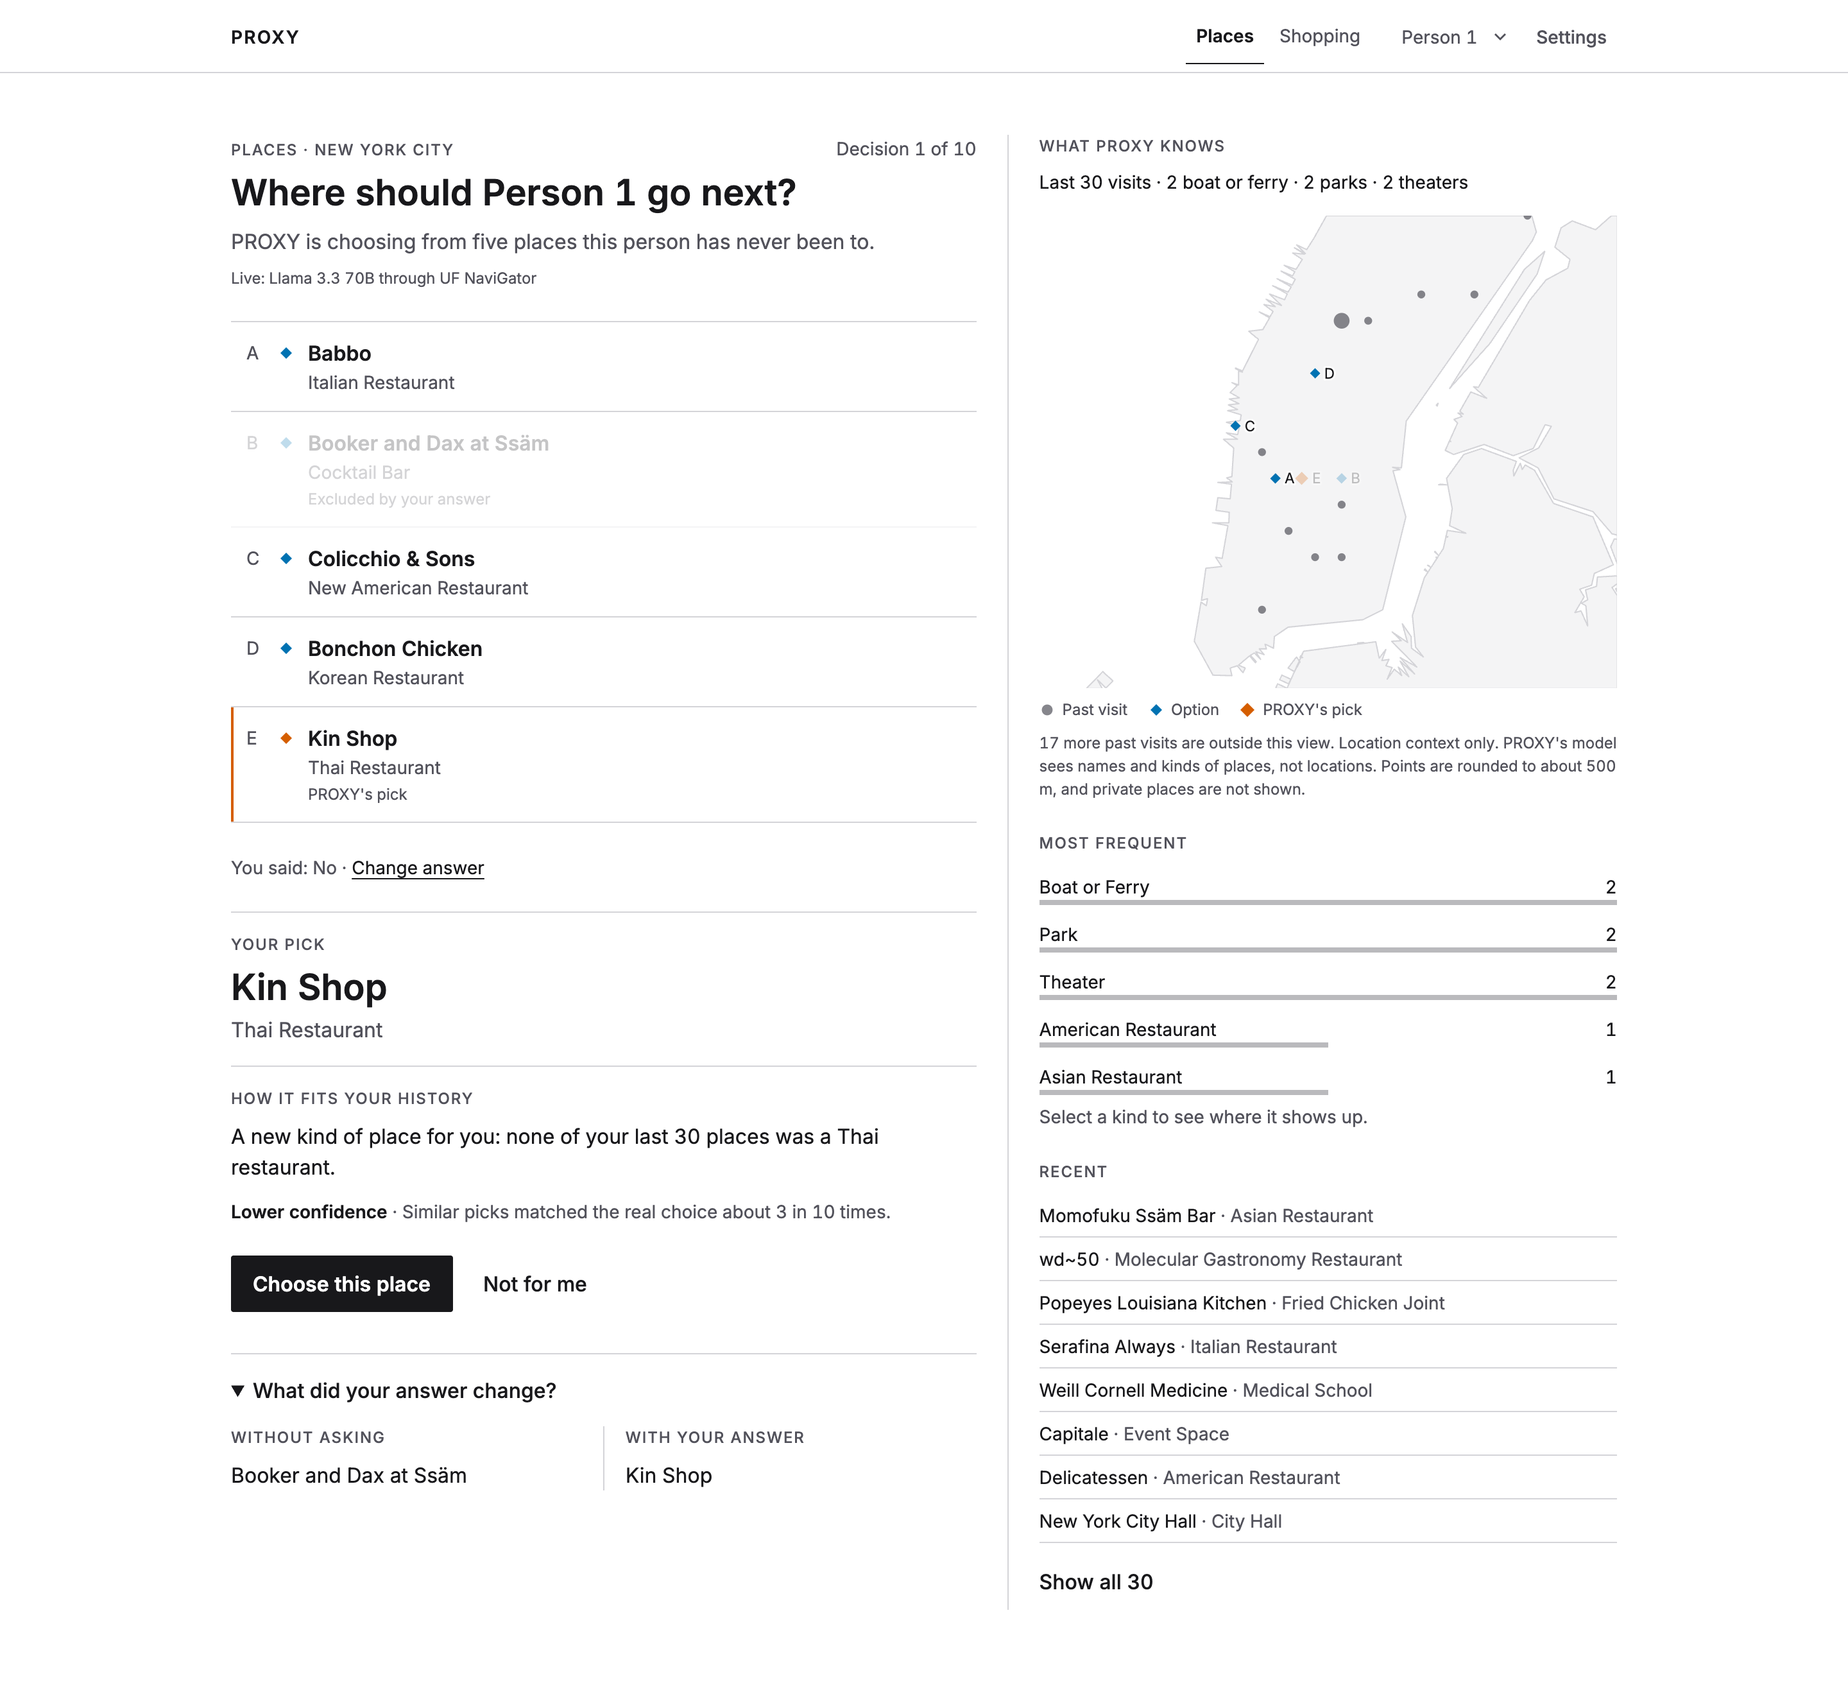
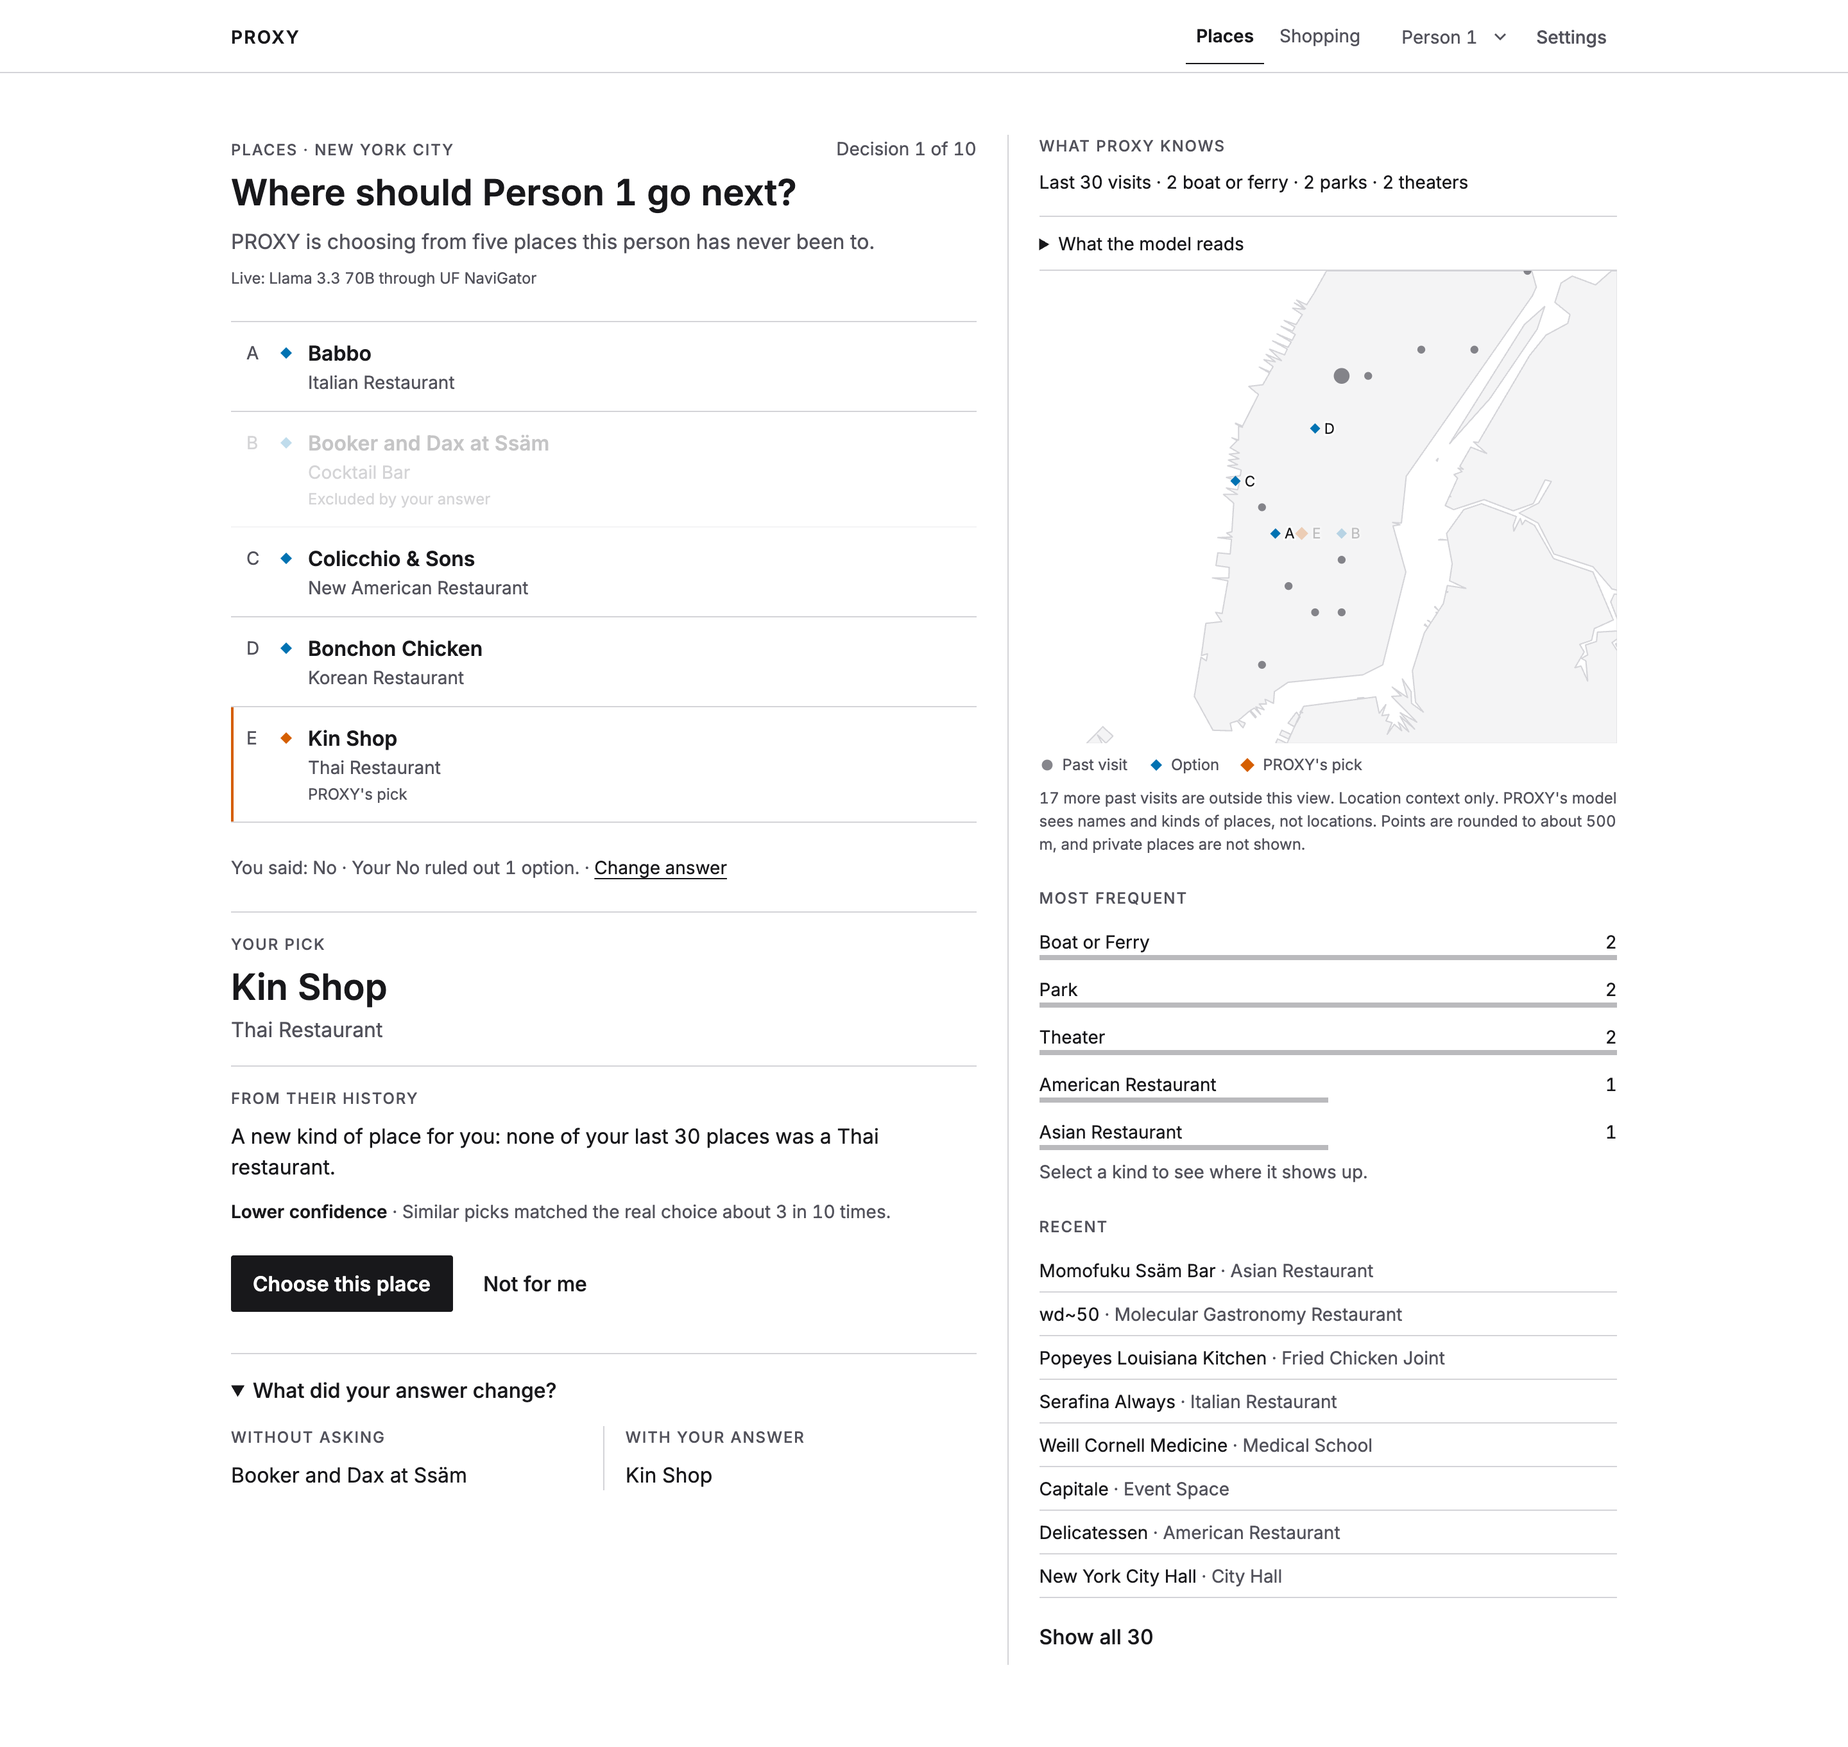
honest outcome wording, what the model reads, mechanism and ruled-out lines

diff --git a/app/src/lib/copy.js b/app/src/lib/copy.js
@@ -86,7 +86,7 @@ export const COPY = {
   skip: 'Skip',
   changeAnswer: 'Change answer',
   pickKicker: 'YOUR PICK',
-  whyHeading: 'How it fits your history',
+  whyHeading: 'From their history',
   notForMe: 'Not for me',
   nextDecision: 'Next decision',
   notForYou: "Not for you. Here's the next option.",
@@ -195,7 +195,13 @@ export function offVisits(n) {
   return n === 1 ? 'One more past visit is outside this view.' : `${n} more past visits are outside this view.`;
 }
 
-export const ROLE_LINE = 'You play this person. Use what PROXY knows about them to answer as they would.';
+export const ROLE_LINE = "Answer as this person would, using their history. Skip if the evidence isn't enough.";
+export const MECHANISM = 'PROXY has already scored all five options. Your answer rules some out, and PROXY picks the highest scored option left.';
+export const LATER_PICK_NOTE = 'A match rate is shown for the first pick only.';
+export const PICKED_LABEL = 'PROXY PICKED';
+export const REAL_LABEL = 'REAL CHOICE';
+export const MODEL_READS = 'What the model reads';
+export const EXACT_INPUT = 'The exact text the model scores';
 export const SEE_REAL = 'See what this person really chose';
 export const PICK_MATCHED = "PROXY's pick matched.";
 export const PICK_MISSED = "PROXY's pick did not match.";
@@ -227,13 +233,29 @@ export function noQuestionLine(setting) {
     : "PROXY didn't ask. No answer was likely to change this pick.";
 }
 
+// The person was never asked, so their answer is inferred from the real choice and labelled as such.
 export function truthfulLine(yes, answer) {
   const t = yes ? 'Yes' : 'No';
+  let mine = '';
   if (answer === 'yes' || answer === 'no') {
-    const mine = answer === 'yes' ? 'Yes' : 'No';
-    return mine === t ? `Their real answer would have been ${t}, the same as yours.` : `Their real answer would have been ${t}. You said ${mine}.`;
+    const a = answer === 'yes' ? 'Yes' : 'No';
+    mine = a === t ? ', the same as yours' : `. You said ${a}`;
   }
-  return `Their real answer would have been ${t}.`;
+  return `Their real choice fits a ${t}${mine}. How they would really have answered is unknown.`;
+}
+
+export function ruledOutLine(answer, n) {
+  const a = answer === 'yes' ? 'Yes' : 'No';
+  if (n === 0) return `Your ${a} ruled out no options.`;
+  return `Your ${a} ruled out ${n === 1 ? '1 option' : `${n} options`}.`;
+}
+
+export function modelReadsLines(domain) {
+  return domain === 'shopping'
+    ? ["The model's saved scores came from the titles of this person's recent purchases and of the five products.",
+      'The question uses the store and category records. Your answer rules products in or out after scoring.']
+    : ['The model reads the names and kinds of the last 30 places and of the five options.',
+      'It does not see locations, the map, or times. Your answer rules options in or out after scoring.'];
 }
 
 export function youSaid(answer) {
@@ -254,7 +276,7 @@ export function andMore(n) {
 }
 
 export function settingsNote(rows, users, domain = 'places') {
-  return `Share of test decisions where PROXY's pick matched the ${dc(domain).settingsNoun}, measured on ${fmtCount(rows)} decisions from ${fmtCount(users)} people it never saw while being tuned. Asking more often generally helps.`;
+  return `Share of test decisions where PROXY's pick matched the ${dc(domain).settingsNoun}, measured on ${fmtCount(rows)} decisions from ${fmtCount(users)} people it never saw while being tuned. Answers were simulated from each real choice, so real answers may help less. Asking more often generally helps.`;
 }
 
 export function personLabel(id) {
@@ -296,7 +318,7 @@ export function allCopyStrings() {
   [askRateText(0), askRateText(0.04), askRateText(0.3), askRateText(0.97), askRateText(1)].forEach((s) => out.push(s));
   out.push(accepted('Place'), decisionOf(1, 9), youSaid('yes'), allRejected(5), endOfDecisions('1'), andMore(12));
   out.push(settingsNote(100, 20), settingsNote(100, 20, 'shopping'));
-  out.push(tallyLine(3, 5), KIND_HINT, SHOW_ALL_KINDS, evidenceLine('places', { count: 3, total: 30, category: 'Cocktail Bar' }), evidenceLine('shopping', { count: 1, total: 10, category: 'Capcom' }), offVisits(1), offVisits(7), ROLE_LINE, SEE_REAL, PICK_MATCHED, PICK_MISSED, leanLine('Kin Shop'), noQuestionLine('Never ask'), noQuestionLine('When unsure'), truthfulLine(true, 'no'), truthfulLine(false, 'no'), truthfulLine(true, 'skip'));
+  out.push(MECHANISM, LATER_PICK_NOTE, MODEL_READS, EXACT_INPUT, ruledOutLine('no', 1), ruledOutLine('yes', 3), ruledOutLine('no', 0), ...modelReadsLines('places'), ...modelReadsLines('shopping'), tallyLine(3, 5), KIND_HINT, SHOW_ALL_KINDS, evidenceLine('places', { count: 3, total: 30, category: 'Cocktail Bar' }), evidenceLine('shopping', { count: 1, total: 10, category: 'Capcom' }), offVisits(1), offVisits(7), ROLE_LINE, SEE_REAL, PICK_MATCHED, PICK_MISSED, leanLine('Kin Shop'), noQuestionLine('Never ask'), noQuestionLine('When unsure'), truthfulLine(true, 'no'), truthfulLine(false, 'no'), truthfulLine(true, 'skip'));
   out.push(workspaceTitle('places', '1'), workspaceTitle('shopping', '1'), contextSummaryTitle('1'), showAll(30), mapLabel(28, 5));
   out.push(...Object.values(DOMAIN_COPY).flatMap((d) => [d.tab, d.kicker, d.sub, d.source, d.choose, d.recent, d.contextCaption, d.usesBody, d.modelBody, ...d.limits]));
   const ev = {

diff --git a/app/src/components/Flow.jsx b/app/src/components/Flow.jsx
@@ -1,6 +1,6 @@
 import { useEffect, useRef } from 'react';
 import {
-  COPY, PICK_MATCHED, PICK_MISSED, ROLE_LINE, SEE_REAL, accepted, allRejected, confidenceParts, dc, decisionOf, endOfDecisions,
+  COPY, LATER_PICK_NOTE, MECHANISM, PICKED_LABEL, PICK_MATCHED, PICK_MISSED, REAL_LABEL, ROLE_LINE, SEE_REAL, ruledOutLine, accepted, allRejected, confidenceParts, dc, decisionOf, endOfDecisions,
   errorMessage, leanLine, noQuestionLine, tallyLine, truthfulLine, workspaceTitle, youSaid,
 } from '../lib/copy.js';
 import { currentOption, isExhausted } from '../lib/flow.js';
@@ -131,6 +131,7 @@ function Question({ state, total, onAnswer }) {
       <p className="kicker">{COPY.questionKicker}</p>
       <h2 className="h-q">{state.question.text}</h2>
       {k !== null && <p className="meta keeps">{yesKeeps(k, total)}</p>}
+      <p className="meta mechanism">{MECHANISM}</p>
       {state.pendingAnswer ? (
         <p className="meta you-said">{youSaid(state.pendingAnswer)}</p>
       ) : (
@@ -149,6 +150,8 @@ function AnswerLine({ state, onChange }) {
   return (
     <p className="meta you-said asked">
       {youSaid(state.answer)}
+      {(state.answer === 'yes' || state.answer === 'no') && state.response && Array.isArray(state.response.ruled_out)
+        ? ` · ${ruledOutLine(state.answer, state.response.ruled_out.length)}` : ''}
       {' · '}
       <button type="button" className="text-link" onClick={onChange}>{COPY.changeAnswer}</button>
     </p>
@@ -196,8 +199,16 @@ export function Outcome({ state, domain, onReveal }) {
   const tally = state.tally && state.tally[domain];
   return (
     <div className="outcome" role="status">
-      <p className="kicker">{dc(domain).really}</p>
-      <p className="outcome-name">{reveal.name}</p>
+      <div className="two-col outcome-compare">
+        <div className="col-a">
+          <p className="kicker">{PICKED_LABEL}</p>
+          <p className="outcome-name">{top ? top.name : ''}</p>
+        </div>
+        <div className="col-rule col-b">
+          <p className="kicker">{REAL_LABEL}</p>
+          <p className="outcome-name">{reveal.name}</p>
+        </div>
+      </div>
       <p className={matched ? 'meta outcome-verdict matched' : 'meta outcome-verdict'}>{matched ? PICK_MATCHED : PICK_MISSED}</p>
       {yes !== null && state.answer && <p className="meta">{truthfulLine(yes, state.answer)}</p>}
       {tally && tally.seen > 0 && <p className="meta tally num">{tallyLine(tally.matched, tally.seen)}</p>}
@@ -244,6 +255,7 @@ function Pick({ state, domain, total, onChoose, onReject, onNext, onChangeAnswer
           </div>
         )}
         {conf && <p className="meta confidence"><strong>{conf.label}</strong>{conf.rest}</p>}
+        {choice.current !== 0 && <p className="meta confidence">{LATER_PICK_NOTE}</p>}
         <div className="actions">
           <button type="button" className="primary-btn" onClick={onChoose}>{dc(domain).choose}</button>
           <button type="button" className="text-btn" onClick={onReject}>{COPY.notForMe}</button>
@@ -295,6 +307,10 @@ export default function Flow(props) {
     if (h && state.started) {
       h.setAttribute('tabindex', '-1');
       h.focus({ preventScroll: true });
+      // keep the question or pick in view on short screens, where it sits below the five options
+      const reduce = window.matchMedia && window.matchMedia('(prefers-reduced-motion: reduce)').matches;
+      const action = root.querySelector('.action');
+      if (action && action.scrollIntoView) action.scrollIntoView({ block: 'nearest', behavior: reduce ? 'auto' : 'smooth' });
     }
   }, [key, state.started]);
 

diff --git a/app/src/styles.css b/app/src/styles.css
@@ -150,9 +150,9 @@ h2.kicker, h3.kicker { font-weight: 500; line-height: 1.5; }
 
 .changed { margin-top: 32px; border-top: 1px solid var(--rule); padding-top: 16px; }
 .changed summary { cursor: pointer; font-weight: 500; min-height: 24px; }
-.changed .two-col { display: grid; grid-template-columns: 1fr 1fr; margin-top: 16px; }
-.changed .two-col > div { padding-right: 16px; }
-.changed .col-rule { border-left: 1px solid var(--rule); padding-left: 16px; padding-right: 0; }
+.changed .two-col, .outcome-compare { display: grid; grid-template-columns: 1fr 1fr; margin-top: 16px; }
+.changed .two-col > div, .outcome-compare > div { padding-right: 16px; }
+.changed .col-rule, .outcome-compare .col-rule { border-left: 1px solid var(--rule); padding-left: 16px; padding-right: 0; }
 .changed p:not(.kicker) { margin-top: 8px; }
 
 /* settings sheet */
@@ -352,3 +352,10 @@ h2.kicker, h3.kicker { font-weight: 500; line-height: 1.5; }
   .map-visit, .evidence { transition: none; }
 }
 .tally { margin-top: 8px; }
+.mechanism { margin-top: 4px; }
+.outcome-compare { margin-bottom: 8px; }
+.model-reads { margin-top: 12px; border-top: 1px solid var(--rule); border-bottom: 1px solid var(--rule); }
+.model-reads summary { cursor: pointer; padding: 10px 0; font-size: 14px; color: var(--text); }
+.model-reads .meta { margin-bottom: 6px; }
+.model-reads .kicker { margin-top: 10px; }
+.model-input { white-space: pre-wrap; font: 12px/1.5 ui-monospace, Menlo, monospace; color: var(--text-2); max-height: 240px; overflow: auto; background: var(--surface, transparent); padding: 8px 10px; margin: 0 0 12px; }

diff --git a/app/src/components/Context.jsx b/app/src/components/Context.jsx
@@ -1,5 +1,7 @@
 import { useState } from 'react';
-import { COPY, KIND_HINT, SHOW_ALL_KINDS, dc, evidenceLine, showAll } from '../lib/copy.js';
+import {
+  COPY, EXACT_INPUT, KIND_HINT, MODEL_READS, SHOW_ALL_KINDS, dc, evidenceLine, modelReadsLines, showAll,
+} from '../lib/copy.js';
 import { evidence, focusKind, sameKind, summaryLine } from '../lib/workspace.js';
 import MapView from './MapView.jsx';
 
@@ -68,6 +70,21 @@ function Recent({ history, domain, kind }) {
   );
 }
 
+function ModelReads({ domain, input }) {
+  return (
+    <details className="model-reads">
+      <summary>{MODEL_READS}</summary>
+      {modelReadsLines(domain).map((l) => <p key={l} className="meta">{l}</p>)}
+      {input && (
+        <>
+          <p className="kicker">{EXACT_INPUT}</p>
+          <pre className="model-input">{input}</pre>
+        </>
+      )}
+    </details>
+  );
+}
+
 export default function Context({
   domain, context, rows, outline, outlineFailed, bounds, state, focus, onKind = () => {}, onOption = () => {},
 }) {
@@ -80,6 +97,7 @@ export default function Context({
       <h2 className="kicker">{COPY.contextKicker}</h2>
       <p className="summary">{summaryLine(domain, context.history_total, context.history_summary)}</p>
       <Evidence domain={domain} history={history} question={question} kind={kind} />
+      <ModelReads domain={domain} input={context.model_input} />
       {domain === 'places' && (
         <>
           <MapView

diff --git a/app/src/components/Workspace.test.jsx b/app/src/components/Workspace.test.jsx
@@ -74,10 +74,10 @@ describe('category line and outcome', () => {
     const miss = renderToStaticMarkup(<Outcome state={{ ...base, reveal: { answer_index: 3, name: 'Kin Shop' } }} domain="places" onReveal={() => {}} />);
     expect(miss).toContain('Kin Shop');
     expect(miss).toContain('did not match');
-    expect(miss).toContain('Their real answer would have been No. You said Yes.');
+    expect(miss).toContain("Their real choice fits a No. You said Yes. How they would really have answered is unknown.");
     const hit = renderToStaticMarkup(<Outcome state={{ ...base, answer: 'skip', reveal: { answer_index: 1, name: 'Booker' } }} domain="places" onReveal={() => {}} />);
     expect(hit).toContain('matched.');
-    expect(hit).toContain('Their real answer would have been No.');
+    expect(hit).toContain("Their real choice fits a No.");
   });
 });
 

diff --git a/app/src/lib/state.js b/app/src/lib/state.js
@@ -40,7 +40,7 @@ export function initialState() {
 }
 
 // The context (options, history, summary) is shared by /api/context and /api/pick. A pick response refreshes it.
-const CONTEXT_FIELDS = ['options', 'history', 'history_total', 'history_summary', 'n_decisions', 'live'];
+const CONTEXT_FIELDS = ['options', 'history', 'history_total', 'history_summary', 'n_decisions', 'live', 'model_input'];
 
 function contextFrom(data, previous) {
   if (!data || !Array.isArray(data.options)) return previous;

diff --git a/api/test_api.py b/api/test_api.py
@@ -232,3 +232,13 @@ def test_context_endpoint_makes_no_model_call(monkeypatch):
     monkeypatch.setattr(core, "score_options", boom)
     j = client.post("/api/context", json={"person": "1", "decision": 0}).json()
     assert len(j["options"]) == 5 and j["n_decisions"] >= 1 and any(o["point"] for o in j["options"])
+
+
+def test_context_shows_the_exact_model_input():
+    """The disclosure shows the same text the model scores, for both domains."""
+    import app as appmod
+    for dom in ("places", "shopping"):
+        j = client.post("/api/context", json={"domain": dom, "person": "1", "decision": 0}).json()
+        d = appmod.get_decision(dom, "1", 0)
+        want = core.build_prompt_shopping(d) if dom == "shopping" else core.build_prompt(d)
+        assert j["model_input"] == want and "Answer with one letter" in want

diff --git a/api/app.py b/api/app.py
@@ -211,7 +211,9 @@ def context(domain, person, idx, d):
     hist = [{"name": h["name"] or h.get("category") or "", "category": h.get("category") or None,
              "point": hp[i] if i < len(hp) else None} for i, h in enumerate(d["history"])]
     return {"options": options, "history": hist[::-1], "history_total": len(d["history"]),
-            "history_summary": core.history_summary(d["history"])}
+            "history_summary": core.history_summary(d["history"]),
+            # the exact text the model scores, so the interface can show what the model reads
+            "model_input": core.build_prompt_shopping(d) if domain == "shopping" else core.build_prompt(d)}
 
 
 @app.get("/api/health")
